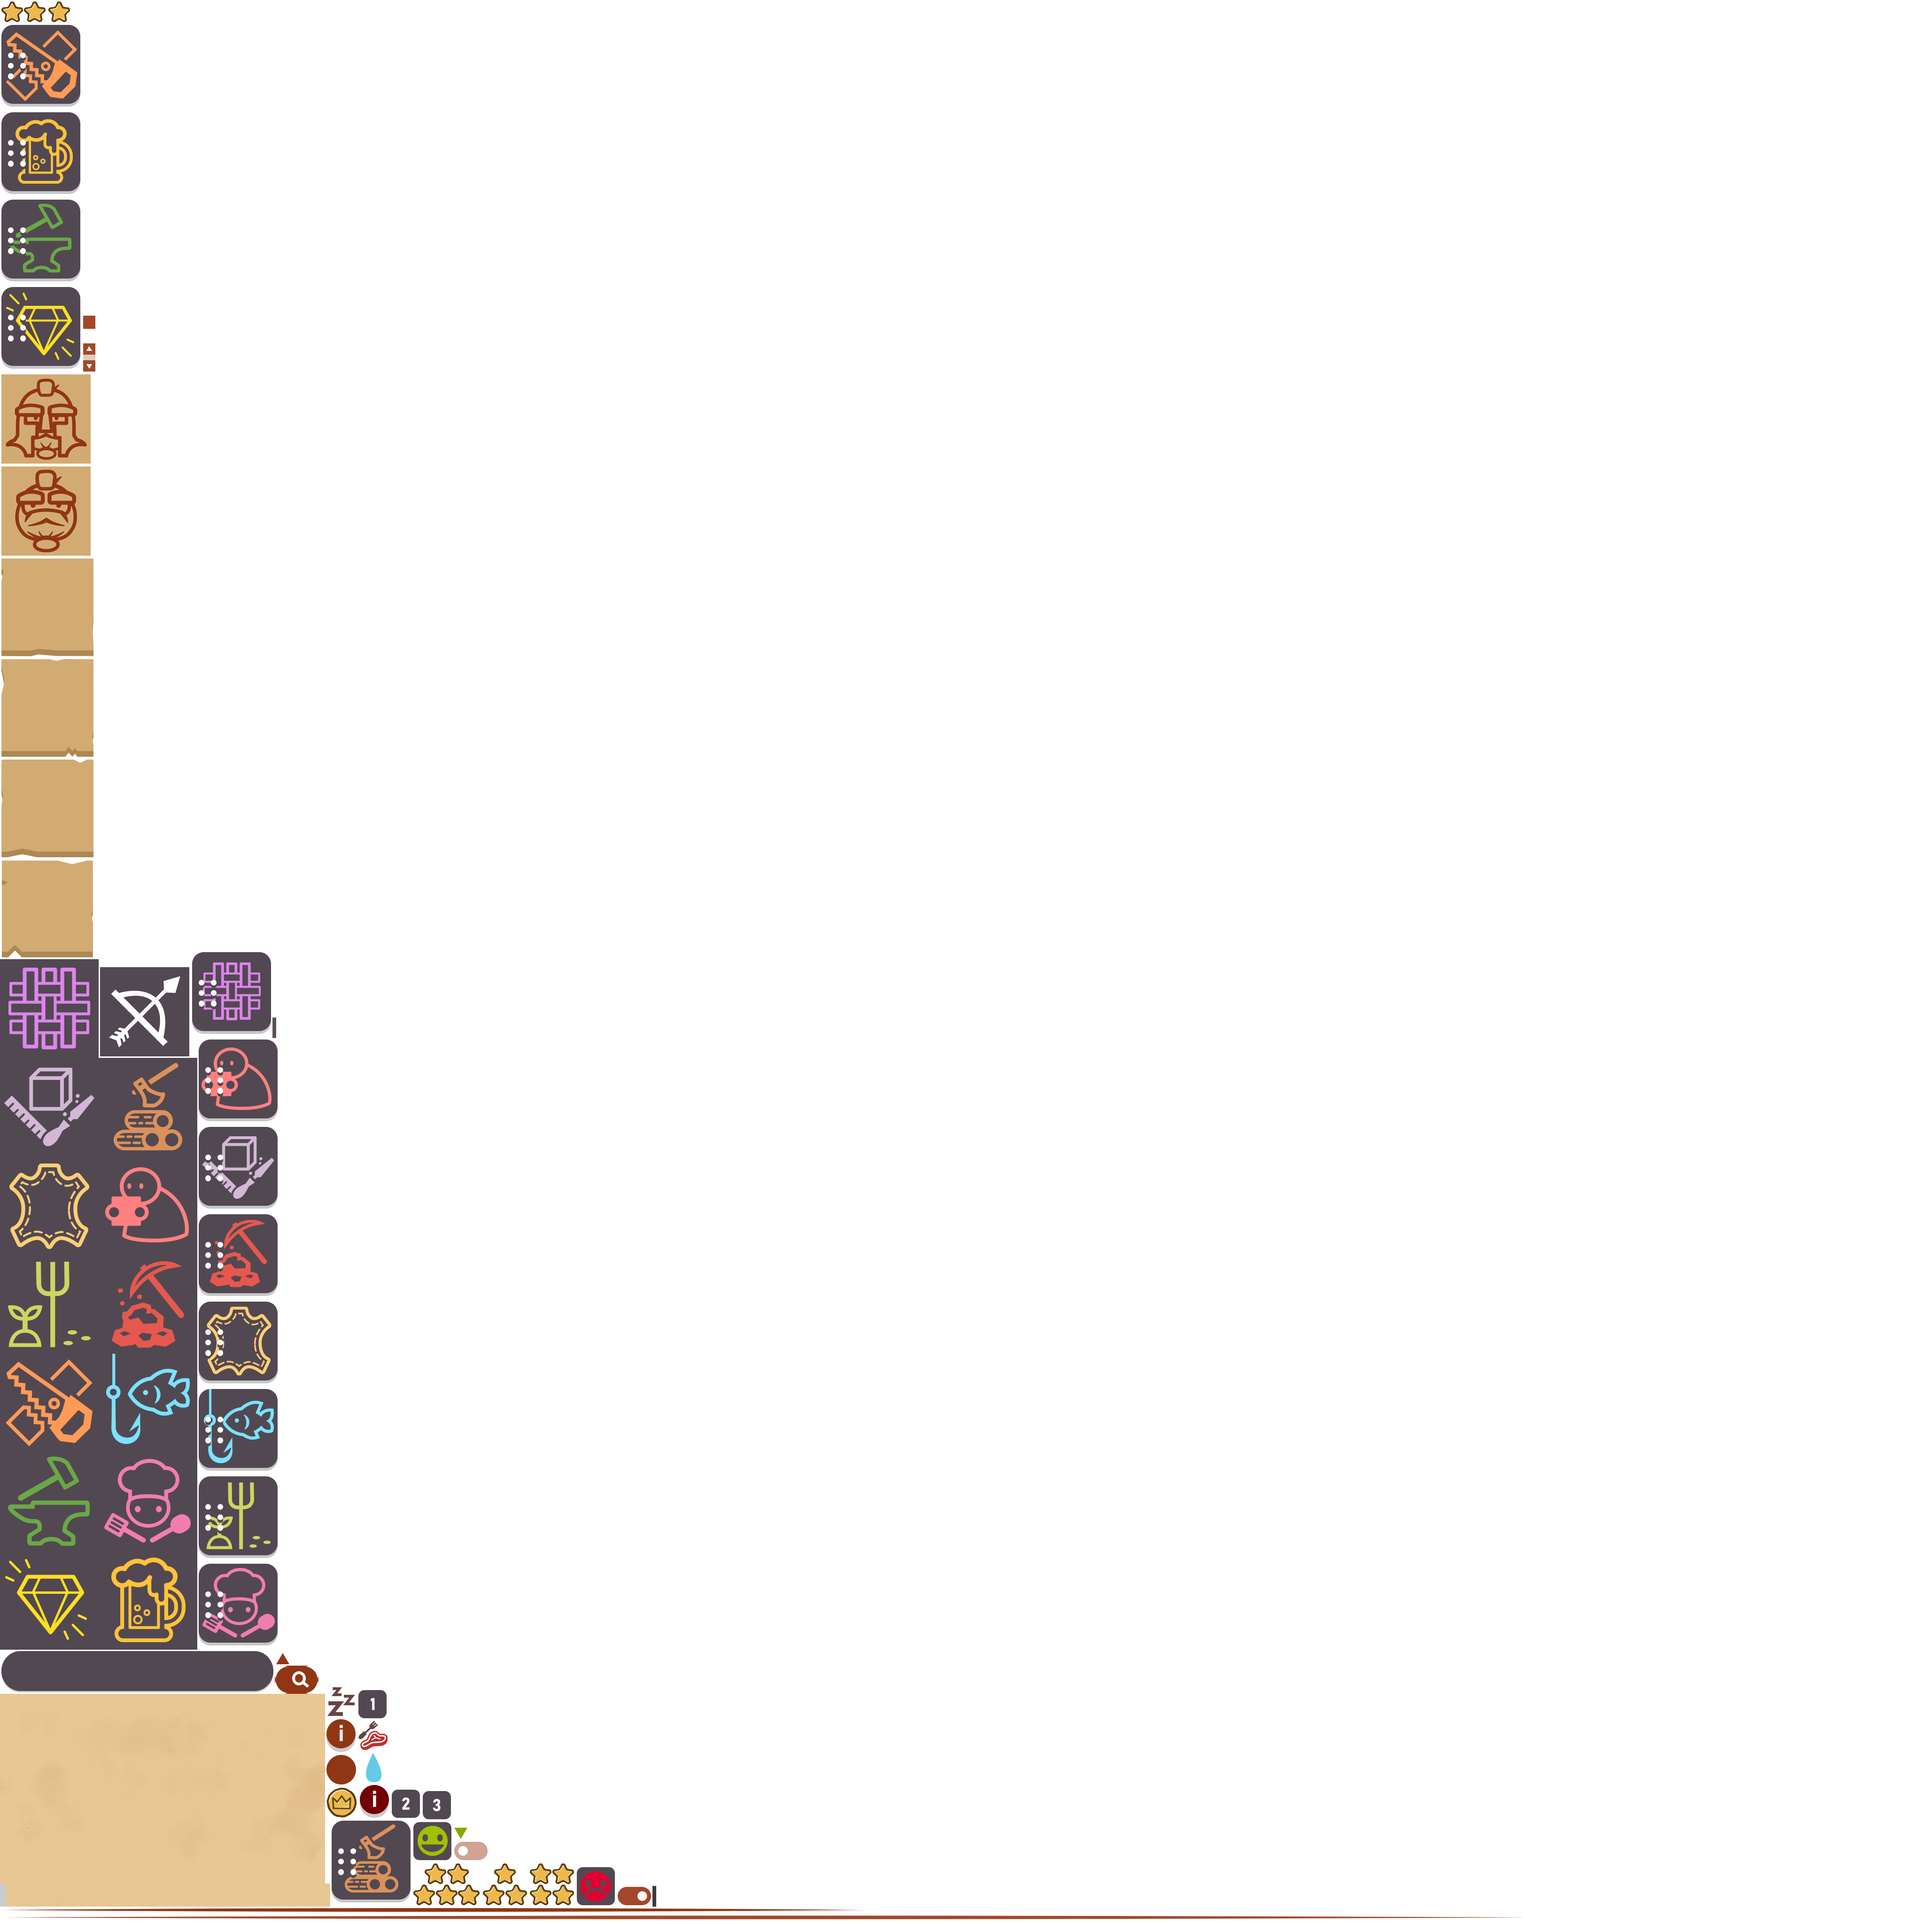
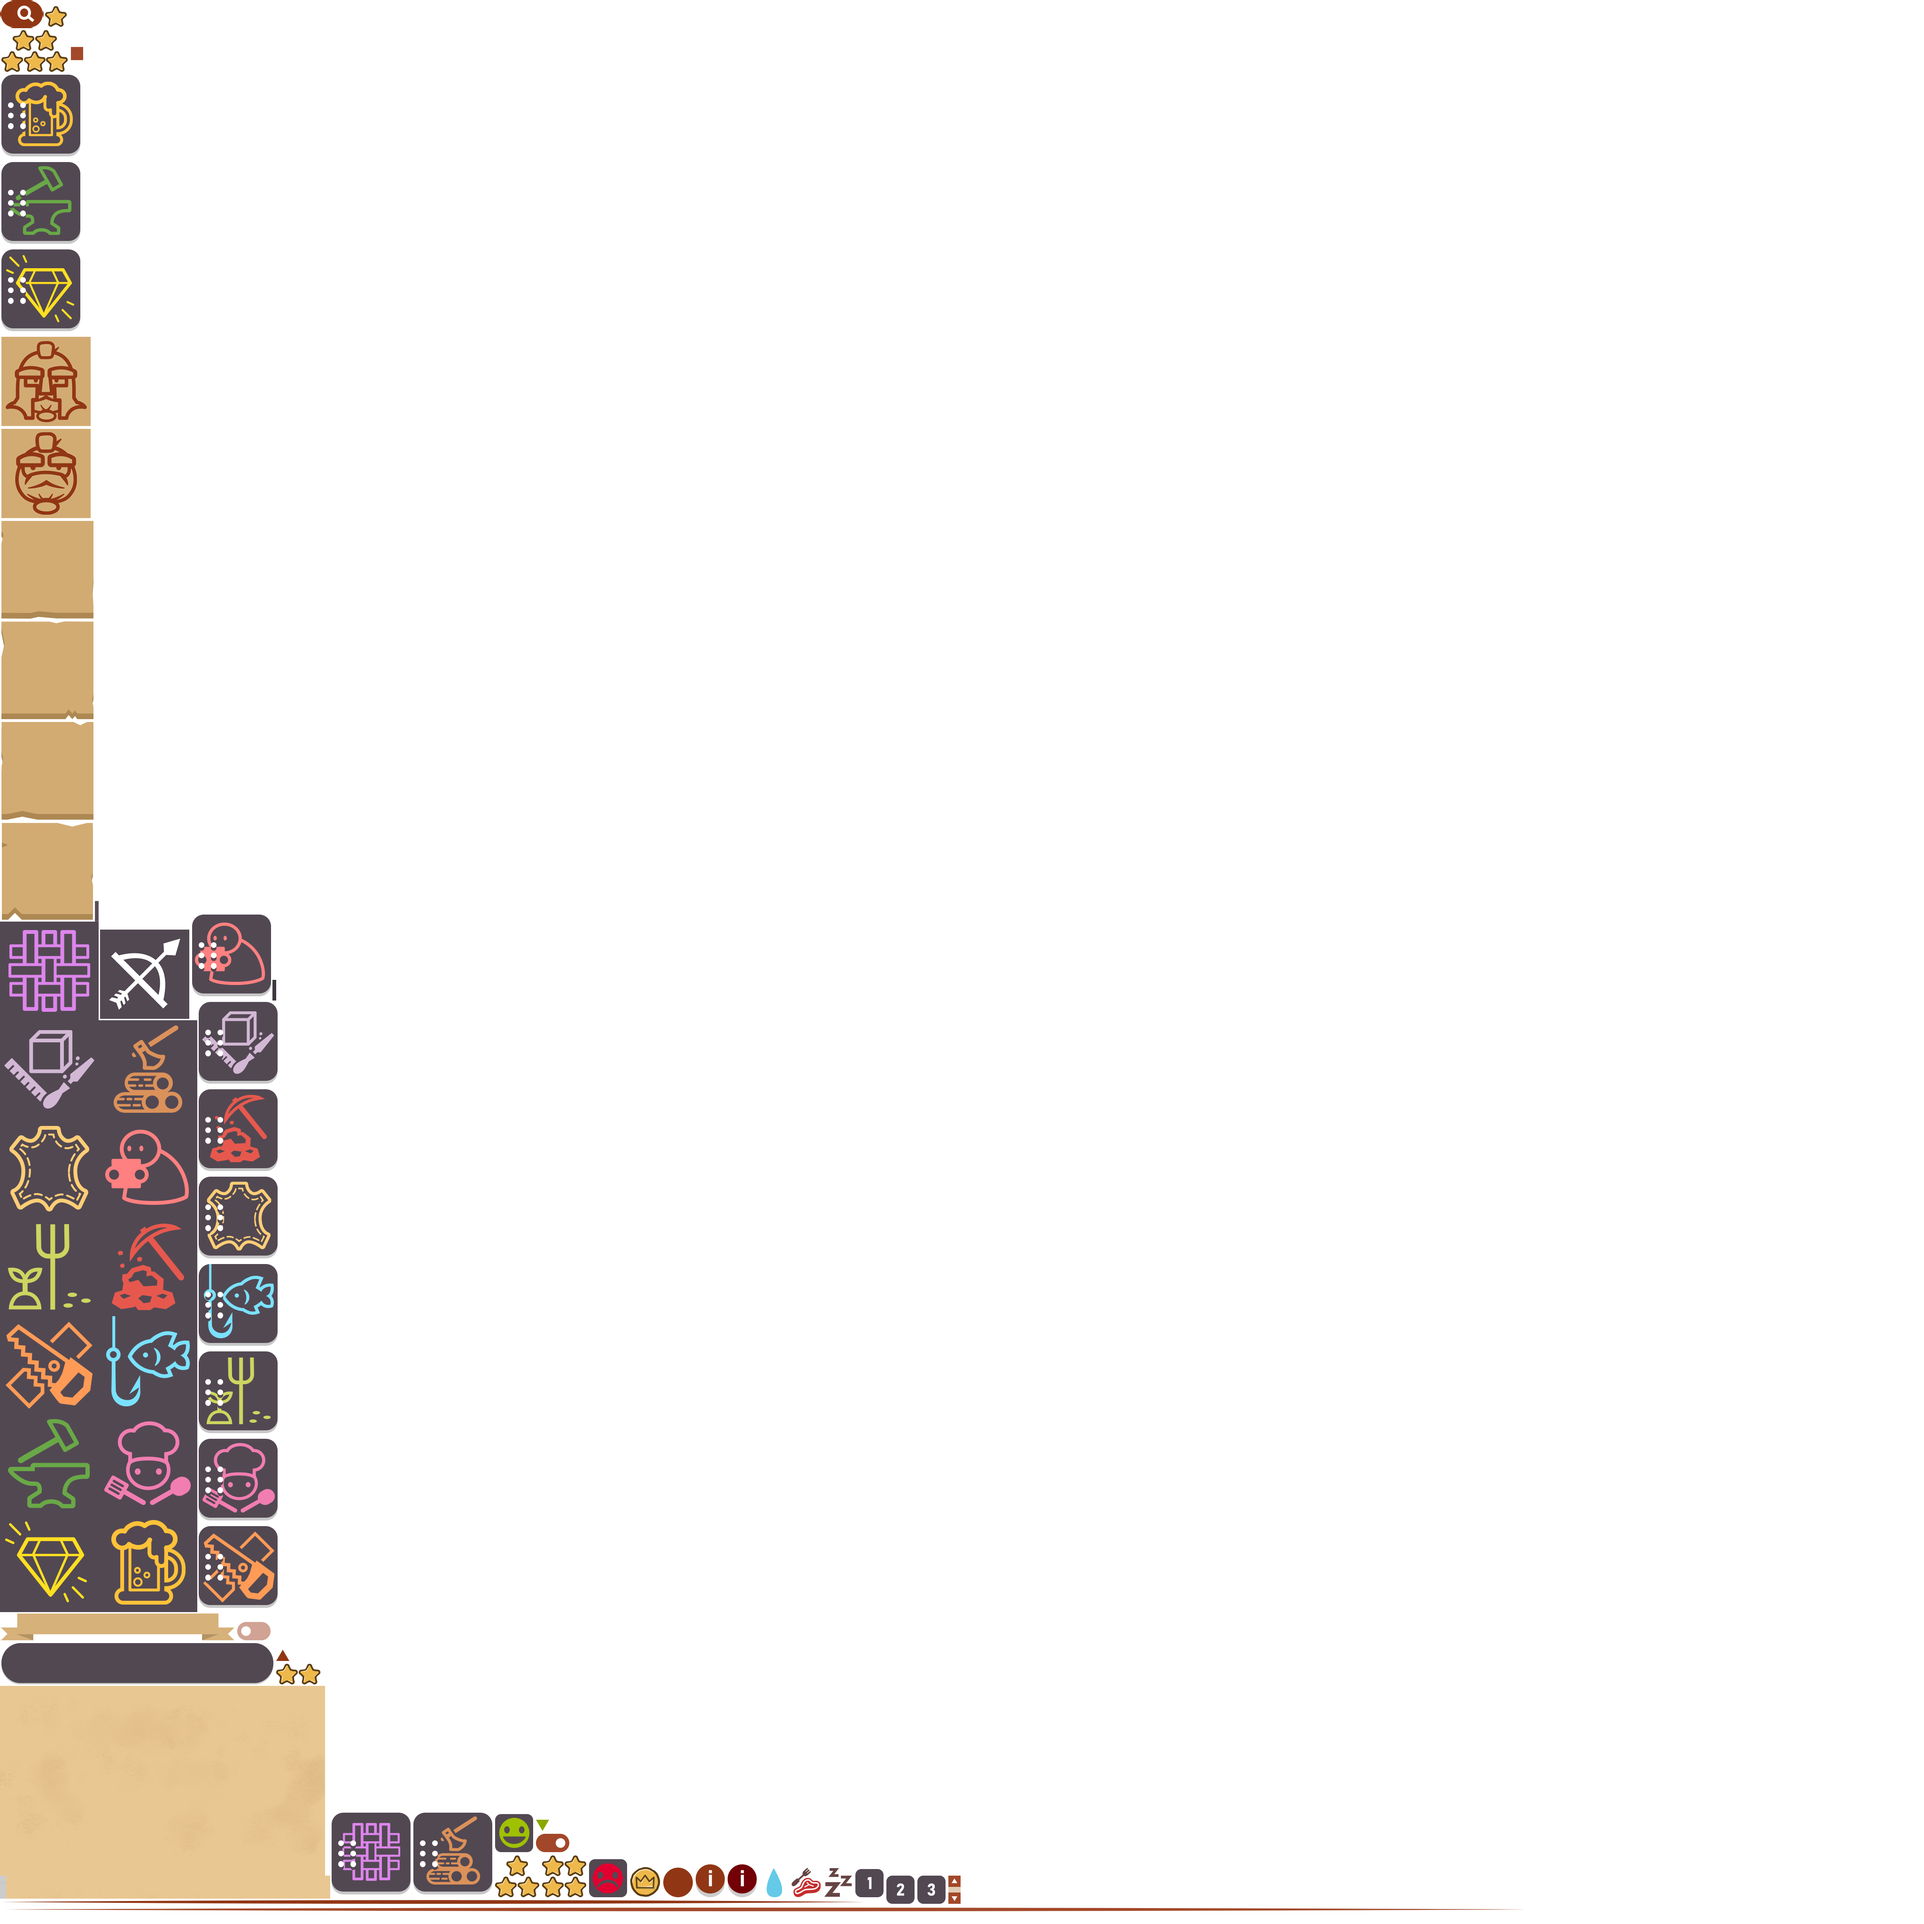
Bit more layout and refactoring

Changed region(s): [[0.0, 0.3125, 0.5938, 1.0], [0.0, 0.0, 0.0625, 0.2812]]

diff --git a/core/src/main/java/technology/rocketjump/saul/screens/SettlerManagementScreen.java b/core/src/main/java/technology/rocketjump/saul/screens/SettlerManagementScreen.java
@@ -104,6 +104,7 @@ public class SettlerManagementScreen extends AbstractGameScreen implements Displ
 	private final I18nTranslator i18nTranslator;
 	private final LabelFactory labelFactory;
 	private final ButtonFactory buttonFactory;
+	private final WidgetFactory widgetFactory;
 	private final SkillDictionary skillDictionary;
 	private final SettlerTracker settlerTracker;
 	private final EntityRenderer entityRenderer;
@@ -123,14 +124,15 @@ public class SettlerManagementScreen extends AbstractGameScreen implements Displ
 	@Inject
 	public SettlerManagementScreen(MessageDispatcher messageDispatcher, GuiSkinRepository guiSkinRepository,
 	                               I18nTranslator i18nTranslator, LabelFactory labelFactory, ButtonFactory buttonFactory,
-	                               SkillDictionary skillDictionary, SettlerTracker settlerTracker, EntityRenderer entityRenderer,
-	                               TooltipFactory tooltipFactory, SettlerProfessionFactory settlerProfessionFactory,
+	                               WidgetFactory widgetFactory, SkillDictionary skillDictionary, SettlerTracker settlerTracker,
+	                               EntityRenderer entityRenderer, TooltipFactory tooltipFactory, SettlerProfessionFactory settlerProfessionFactory,
 	                               SettlementFurnitureTracker settlementFurnitureTracker) {
 		this.menuSkin = guiSkinRepository.getMenuSkin();
 		this.managementSkin = guiSkinRepository.getManagementSkin();
 		this.i18nTranslator = i18nTranslator;
 		this.labelFactory = labelFactory;
 		this.buttonFactory = buttonFactory;
+		this.widgetFactory = widgetFactory;
 		this.skillDictionary = skillDictionary;
 		this.messageDispatcher = messageDispatcher;
 		this.settlerTracker = settlerTracker;
@@ -179,7 +181,7 @@ public class SettlerManagementScreen extends AbstractGameScreen implements Displ
 		stack = new Stack();
 		stack.setFillParent(true);
 		stack.add(menuSkin.buildBackgroundBaseLayer());
-		stack.add(menuSkin.buildPaperLayer(buildPaperComponents()));
+		stack.add(menuSkin.buildPaperLayer(buildPaperComponents(), 136, true));
 
 		stage.addActor(stack);
 	}
@@ -221,14 +223,7 @@ public class SettlerManagementScreen extends AbstractGameScreen implements Displ
 		Label populationStatisticsLabel = new Label(populationStatisticsText.toString(), managementSkin, "sort_by_label");
 		populationRow.add(populationStatisticsLabel);
 
-		ImageTextButton immigrationToggle = new ImageTextButton(i18nTranslator.translate("GUI.SETTLER_MANAGEMENT.IMMIGRATION"), managementSkin, "text_toggle");
-		Label immigrationLabel = immigrationToggle.getLabel();
-		Image immigrationImage = immigrationToggle.getImage();
-		immigrationToggle.clearChildren();
-		immigrationToggle.add(immigrationLabel).padRight(28f);
-		immigrationToggle.add(immigrationImage);
-		immigrationToggle.addActorBefore(immigrationToggle.getImage(), immigrationLabel);
-		buttonFactory.attachClickCursor(immigrationToggle, GameCursor.SELECT);
+		ImageTextButton immigrationToggle = widgetFactory.createLeftLabelledToggle("GUI.SETTLER_MANAGEMENT.IMMIGRATION", managementSkin);
 		if (gameContext != null) {
 			immigrationToggle.setChecked(gameContext.getSettlementState().isAllowImmigration());
 		}

diff --git a/core/src/main/java/technology/rocketjump/saul/ui/skins/MenuSkin.java b/core/src/main/java/technology/rocketjump/saul/ui/skins/MenuSkin.java
@@ -19,12 +19,16 @@ public class MenuSkin extends Skin {
 		return table;
 	}
 
-	public Table buildPaperLayer(Actor paperComponents) {
+	public Table buildPaperLayer(Actor paperComponents, int outsidePadding, boolean thinPattern) {
+		String patternName = "paper_texture_bg_pattern_large";
+		if (thinPattern) {
+			patternName = "paper_texture_bg_pattern_thin";
+		}
 		Table baseLayer = new Table();
 		baseLayer.setBackground(getDrawable("paper_texture_bg"));
-		baseLayer.add(new Image(getDrawable("paper_texture_bg_pattern_large"))).growY().padLeft(257); //TODO : change from padding from outside to just pad from paperComponents out?
+		baseLayer.add(new Image(getDrawable(patternName))).growY().padLeft(outsidePadding); //TODO : change from padding from outside to just pad from paperComponents out?
 		baseLayer.add(paperComponents).expandX();
-		baseLayer.add(new Image(getDrawable("paper_texture_bg_pattern_large"))).growY().padRight(257);
+		baseLayer.add(new Image(getDrawable(patternName))).growY().padRight(outsidePadding);
 		return baseLayer;
 	}
 }

diff --git a/core/src/main/java/technology/rocketjump/saul/ui/widgets/WidgetFactory.java b/core/src/main/java/technology/rocketjump/saul/ui/widgets/WidgetFactory.java
@@ -80,6 +80,20 @@ public class WidgetFactory {
         return selectBox;
     }
 
+    public ImageTextButton createLeftLabelledToggle(String i18nKey, Skin skin) {
+        ImageTextButton toggle = new ImageTextButton(i18nTranslator.translate(i18nKey), skin, "text_toggle");
+        Label label = toggle.getLabel();
+        Image toggleImage = toggle.getImage();
+        toggle.clearChildren();
+        toggle.add(label).padRight(28f);
+        toggle.add(toggleImage);
+        toggle.addActorBefore(toggle.getImage(), label);
+
+        toggle.addListener(new ClickableSoundsListener(messageDispatcher, soundAssetDictionary));
+        toggle.addListener(new ChangeCursorOnHover(toggle, GameCursor.SELECT, messageDispatcher));
+        return toggle;
+    }
+
     public CheckBox createLeftLabelledCheckbox(String i18nKey, Skin skin, float labelMaxWidth) {
         CheckBox checkbox = new CheckBox("", skin);
         Label realLabel = new ScaledToFitLabel(i18nTranslator.translate(i18nKey), skin, "checkbox_label", labelMaxWidth);

diff --git a/core/src/main/java/technology/rocketjump/saul/screens/ResourceManagementScreen.java b/core/src/main/java/technology/rocketjump/saul/screens/ResourceManagementScreen.java
@@ -154,7 +154,7 @@ public class ResourceManagementScreen extends AbstractGameScreen implements Game
 		stack = new Stack();
 		stack.setFillParent(true);
 		stack.add(menuSkin.buildBackgroundBaseLayer());
-		stack.add(menuSkin.buildPaperLayer(buildPaperComponents()));
+		stack.add(menuSkin.buildPaperLayer(buildPaperComponents(), 257, false));
 		stack.add(buildExitTable());
 
 		stage.addActor(stack);

diff --git a/core/src/main/java/technology/rocketjump/saul/screens/menus/PaperMenu.java b/core/src/main/java/technology/rocketjump/saul/screens/menus/PaperMenu.java
@@ -36,7 +36,7 @@ public abstract class PaperMenu implements Menu {
 
 	public void rebuild() {
 		stack.addActor(skin.buildBackgroundBaseLayer());
-		stack.addActor(skin.buildPaperLayer(buildComponentLayer()));
+		stack.addActor(skin.buildPaperLayer(buildComponentLayer(), 257, false));
 		savedGamesUpdated();
 	}
 }
